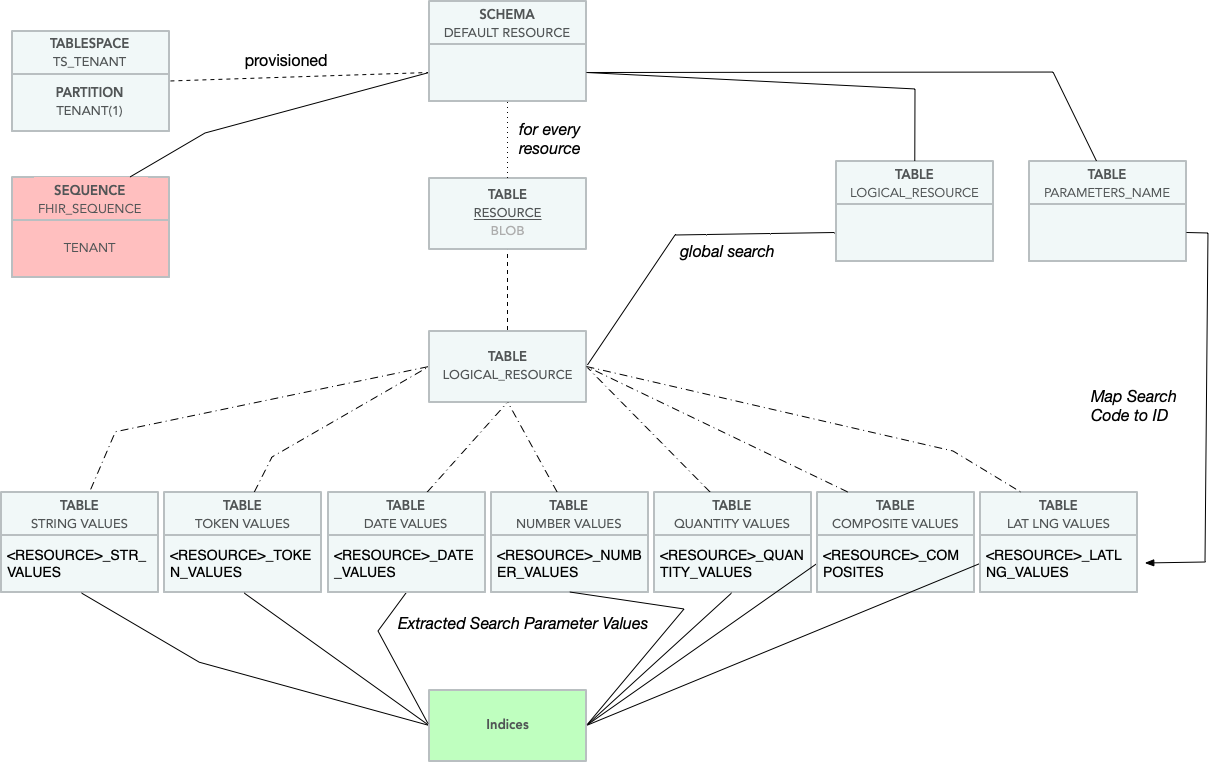
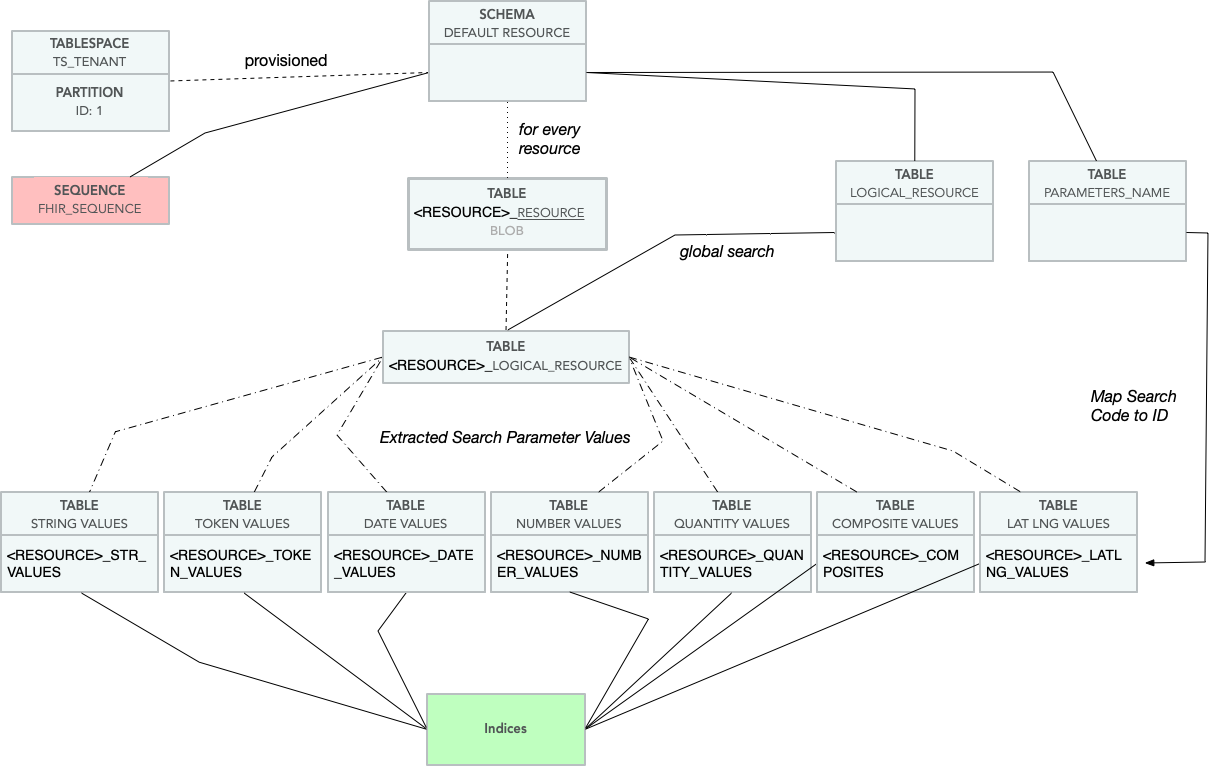
Apply suggestions from code review

diff --git a/fhir-persistence-schema/docs/DB2SchemaMigration.md b/fhir-persistence-schema/docs/DB2SchemaMigration.md
@@ -87,7 +87,8 @@ The Tenant Keys table stores a hashed version of the tenant specific key. Upon c
 `AdminSchemaGenerator.addTenantKeysTable` method adds the TENANT_KEYS table, and updates to this table definition requries a change to the setVersion (incrementing by 1).
 
 ``` java
-this.tenantKeysTable = Table.builder(adminSchemaName, TENANT_KEYS)
+this.tenantKeysTable = Table.builder(adminSchemaName, TENANT_KEYS
+    .setVersion(2)
     .addIntColumn(        TENANT_KEY_ID,             false)
     .addIntColumn(                MT_ID,             false)
     .addVarcharColumn(      TENANT_SALT,        44,  false)
@@ -100,15 +101,13 @@ this.tenantKeysTable = Table.builder(adminSchemaName, TENANT_KEYS)
     .build(model);
 ```
 
-If this table is updated, the changes must be manually apply the migration steps to the `TENANT_KEYS` and the corresponding indices. 
+Changes to the FHIR_ADMIN schem are not supported.
 
 If the UniqueIndex or ForeignKeyConstraint is removed, and the constraint has been previously applied to a database, the active schema must be updated, and the object must be dropped.
 
 ## Managing PROCEDURE
 
-`FHIR_ADMIN.set_tenant` is created in the FHIR_ADMIN schema.  The stored procedure is a 
-
-If updates are made to the `set_tenant.sql`, the `FhirSchemaGenerator.buildAdminSchema`'s FhirSchemaConstants.INITIAL_VERSION must be updated to the next highest integer (in this case 2). 
+`FHIR_ADMIN.set_tenant` is created in the FHIR_ADMIN schema. If updates are made to the `set_tenant.sql`, the `FhirSchemaGenerator.buildAdminSchema`'s FhirSchemaConstants.INITIAL_VERSION must be updated to the next highest integer (in this case 2). 
 
 ``` java
 // The set_tenant procedure can be created after all the admin tables are done
@@ -135,9 +134,9 @@ The schema is based on the resources and types identified in the `ModelSupport.g
 
 ## Managing the TABLESPACE
 
-Each tenant receives a tenant specific tablespace. The tablespace is managed automatically with a default EXTENTSIZE of 128.  
+Each tenant receives a tenant specific tablespace. The tablespace is managed automatically with a default block storage size ([EXTENTSIZE](https://www.ibm.com/support/knowledgecenter/SSEPGG_11.5.0/com.ibm.db2.luw.admin.dbobj.doc/doc/c0004964.html)) of 128. Note, The extentsize is multiplied by the pagesize to arrive at a storage block.
 
-The schema is created in the multi-tenant schema `CreateSchemas` action, such as `FHIRDATA`.  When the schema is created a base schema is created with `UpdateSchema` action.  The `AllocateTenant` action provisions the schema in the tenant's table space for instance, `TS_TENANT1`.  
+The schema is created in the multi-tenant schema  and subsequently allocated using `fhir-persistence-schema`.
 
 Each tenant is allocated a partition based on the MT_ID and assigned to a tablespace. 
 
@@ -149,8 +148,10 @@ Each tenant has a two tenant specific sequences. These sequences are created a s
 
 | Sequence Name | Description |
 |----------|---------------------------------------------|
-| `fhir_sequence` | The logical id in the database, used for storing each FHIR Resource |
+| `fhir_sequence` | The `LOGICAL_ID` in the database, used for storing each FHIR Resource |
 | `fhir_ref_sequence` | The reference sequence is a logical id for Parameter Names, Code Systems and Resource Types tables |
+
+Note, the `LOGICAL_ID` is used to assign an internal database ID.  The LOGICAL_ID is different from the FHIR `Resource.id`.  
 
 The stored procedures `add_resource_type`, `add_parameter_name`, `add_code_system`, and `add_any_resource` use the value to uniquely store the resource or supporting data element. 
 
@@ -167,7 +168,7 @@ VISIONPRESCRIPTION_RESOURCES
 VISIONPRESCRIPTION_LOGICAL_RESOURCES
 ```
 
-The data definition has several reference tables to support FHIR Search for each Resoruce type.
+The data definition has several reference tables to support FHIR Search for each Resoruce type. Each of the following table types are defined in the `FHIRResourceTableGroup.java`. 
 
 | Search Parameter Types | Search Value Table | Description |
 |----------|----------|---------------------------------------------|
@@ -192,8 +193,6 @@ VISIONPRESCRIPTION_LATLNG_VALUES
 ```
 
 There are also additional tables to support search: `LOGICAL_RESOURCE`, `RESOURCE_TYPES` and `PARAMETER_NAMES` These tables are paritioned, and are specific for each tenant. 
-
-Each of these tables follows a common pattern, and are defined in the `FHIRResourceTableGroup.java`. 
 
 For any changes to any tables or indices, the table definition must be updated to a more recent version, one must update the table definition. For instance, for `addStrValues` one must increment the `setVersion` number: 
 
@@ -229,29 +228,28 @@ Common reasons to modify the Resource tables are:
     - The Resources are saved as Blobs in the database, and are transparent to the FHIR Version changes. The changes from version-to-version are resilient to field add-remove changes, type changes, and resources additions.  This migration must be done manually.
     - Resource removals must be done manually. 
 - **Column Attribute Changes (Space, Value Type)**
-    - As the column types, changes are changed in any column, a specific alter statement must be executed on the table, and constraints must be changed or relaxed. This migration must be done manually.
+    - As the column definitions change, a specific alter statement must be executed on the table, and constraints must be changed or relaxed. This migration must be done manually.
 - **Index - Add or Remove or Update**
     - As indices are removed from the table definition, the removed indices must be manually dropped for each Resource table. 
     - As indices are added to the table definition, the version of the table must be updated, and the index must be applied and updated manually.
 - **Constraint Updates** If there are Foreign Key updates, the changes must be applied manually and reflected in the code base. 
 - **Search Parameter Changes (Specification and Tenant)**
     - If the the parameter type or code is changed, the PARAMETERS_NAME and the corresponding table must be updated to remove references to the removed parameter (based on `SearchParameter.code`). 
-    - If there is a new SearchParameter (with a new `code`) added to the system, the SearchParameter values are only updated if/when the resource is updated.
+    - If there is a new or altered SearchParameter `code` added to the server, the SearchParameter values are only changed if/when the resource is updated. 
+    - If a `SearchParameter.code` is removed, the corresponding parameter remains until the resource is reprocessed.  The code to parameter mapping remains in `PARAMETER_NAMES` table until manually removed. 
 
 For each of the above changes, the version of the table must be incremented. 
 
 The resource table stores the FHIR resource as a compressed blob, changes to the specification or extensions should only impact Search values. 
 
-The tables have various indices - PrimaryKey, Index and UniqueIndex. These indices are created as part of the Java object - Table.  These 
-
-If a modification is made to a Search Parameter (addition, removal), then the resource uses the existing search parameter values until a new version of the resource is processed.
+The tables have various indices - PrimaryKey, Index and UniqueIndex. These indices are created as part of the Java object - Table.  These indices must be removed or altered manually.  
 
 Each of these tables has row-level permissions based on the conditional READ-only global variable `SV_TENANT_ID`. For example, for AUDITEVENT_COMPOSITES:
 
 ``` sql
 CREATE PERMISSION FHIRDATA.AUDITEVENT_COMPOSITES_TENANT
-    ON FHIRAPP.AUDITEVENT_COMPOSITES FOR ROWS
-    WHERE FHIRAPP.AUDITEVENT_COMPOSITES.MT_ID = FHIR_ADMIN.SV_TENANT_ID 
+    ON FHIRDATA.AUDITEVENT_COMPOSITES FOR ROWS
+    WHERE FHIRDATA.AUDITEVENT_COMPOSITES.MT_ID = FHIR_ADMIN.SV_TENANT_ID 
     ENFORCED FOR ALL ACCESS ENABLE ;
 ```
 
@@ -259,7 +257,7 @@ For security reasons, these permissions should not be removed, migrated, or alte
 
 ## Managing Stored Procedures
 
-`FHIRDATA.ADD_CODE_SYSTEM` is created in the default schema.  The stored procedures `add_code_system`, `add_parameter_name`, `add_resource_type`, and `add_any_resource`.
+In the tenant's schema, there are four stored procedures `add_code_system`, `add_parameter_name`, `add_resource_type`, and `add_any_resource` which are created.
 
 If updates are made to the `add_code_system.sql`, the `FhirSchemaGenerator.buildSchema`'s FhirSchemaConstants.INITIAL_VERSION must be updated to the next highest integer (in this case 2). 
 
@@ -272,9 +270,9 @@ ProcedureDef pd = model.addProcedure(this.schemaName,
     procedurePrivileges);
 ```
 
-When the `fhir-persistence-schema` buildSchema is executed, the **INSERT**, **SELECT**, **UPDATE**, **DELETE** grant is applied again, and the procedures are updated. Each Procedure privilege is reset upon re-executing the action. 
+When the `fhir-persistence-schema` actions are executed with `--grant-to`, the **INSERT**, **SELECT**, **UPDATE**, **DELETE**, **EXECUTE** grants are applied again, and the procedures are updated. Each Procedure privilege is reset upon re-executing the action. 
 
-If you change the stored procedure signature, you MUST drop the stored procedure, before applying the updated stored procedure to the database. 
+If you change the stored procedure signature, the `fhir-persistence-schema` does not automatically drop the prior stored procedure and signature, and the stored procedure MUST be dropped manually.
 
 ## Managing GRANTS
 The Db2 data definition secures data access using `GRANT` predicates. To update or change, use the `--grant-to` predicate to apply the grants. 
